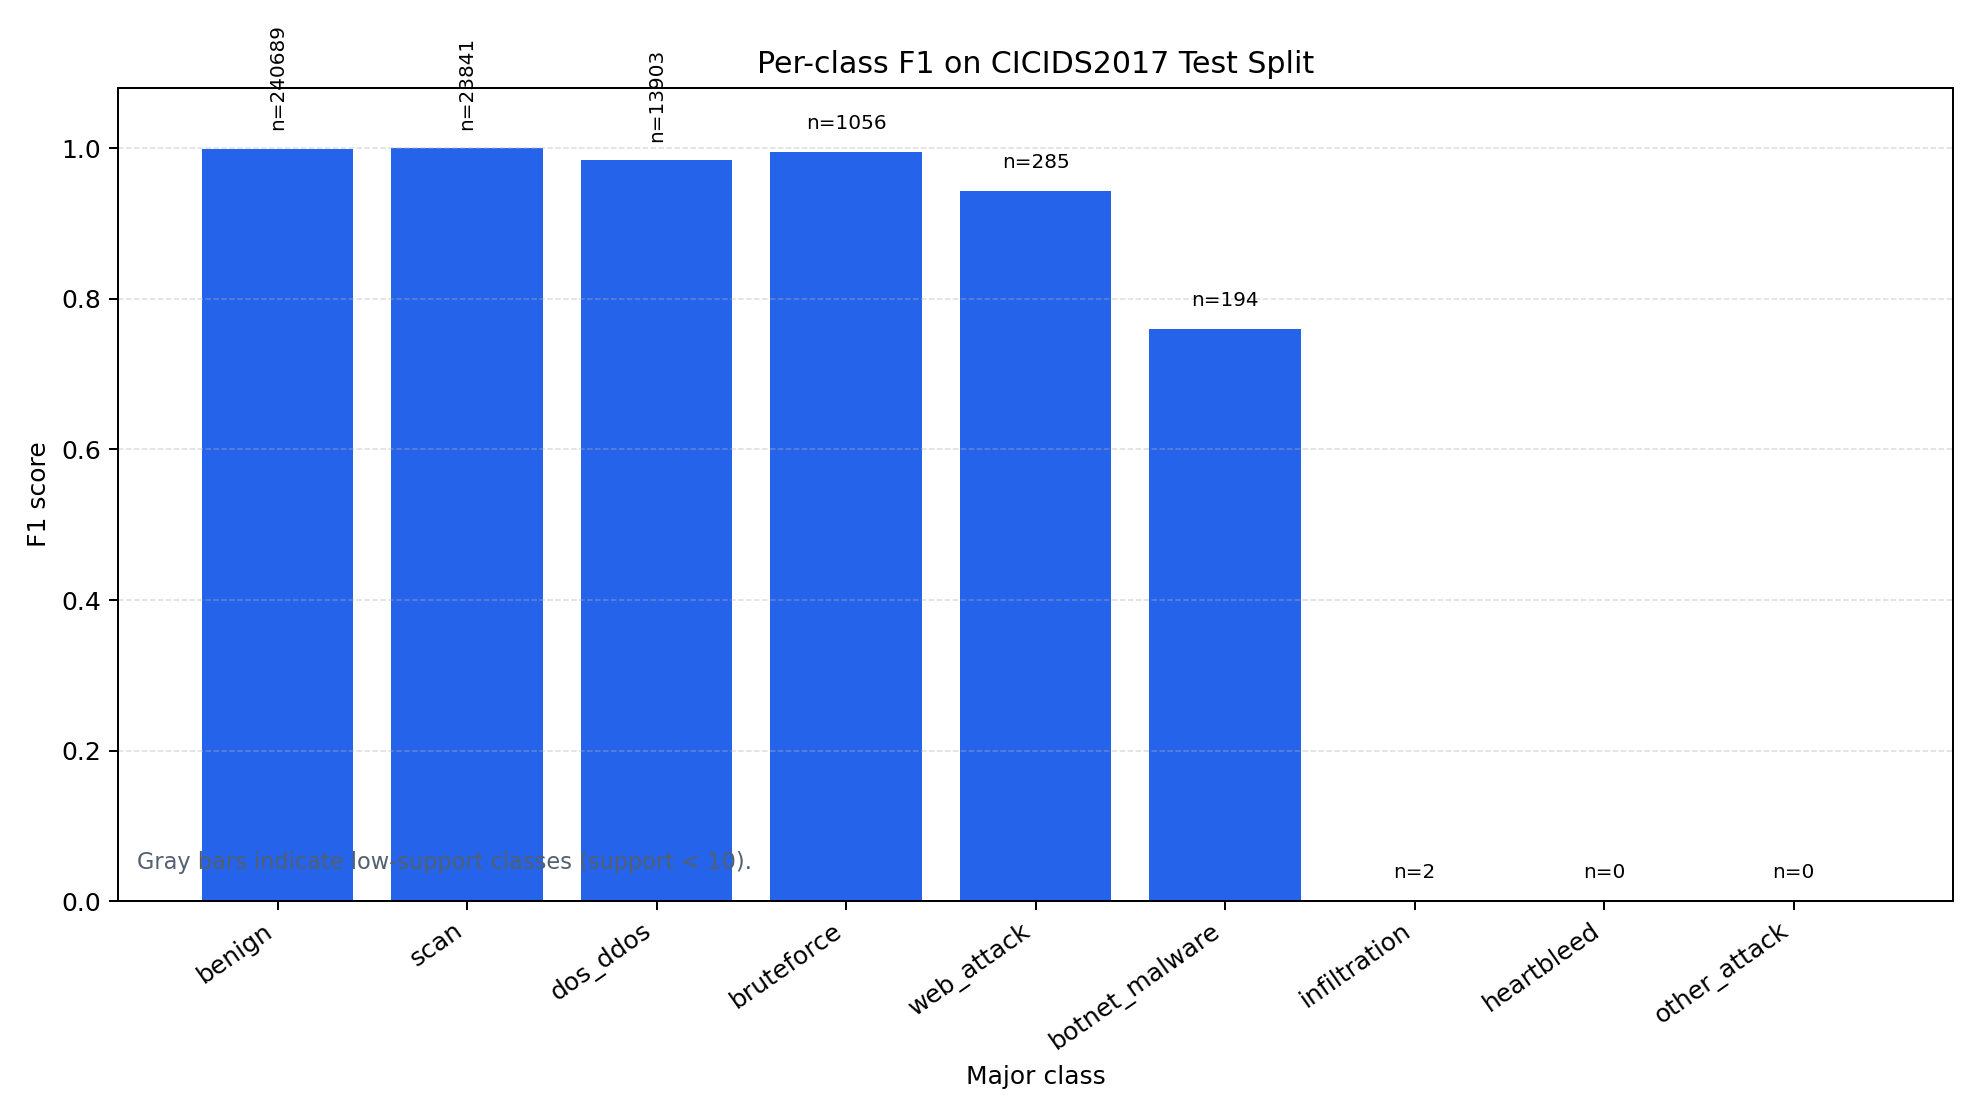
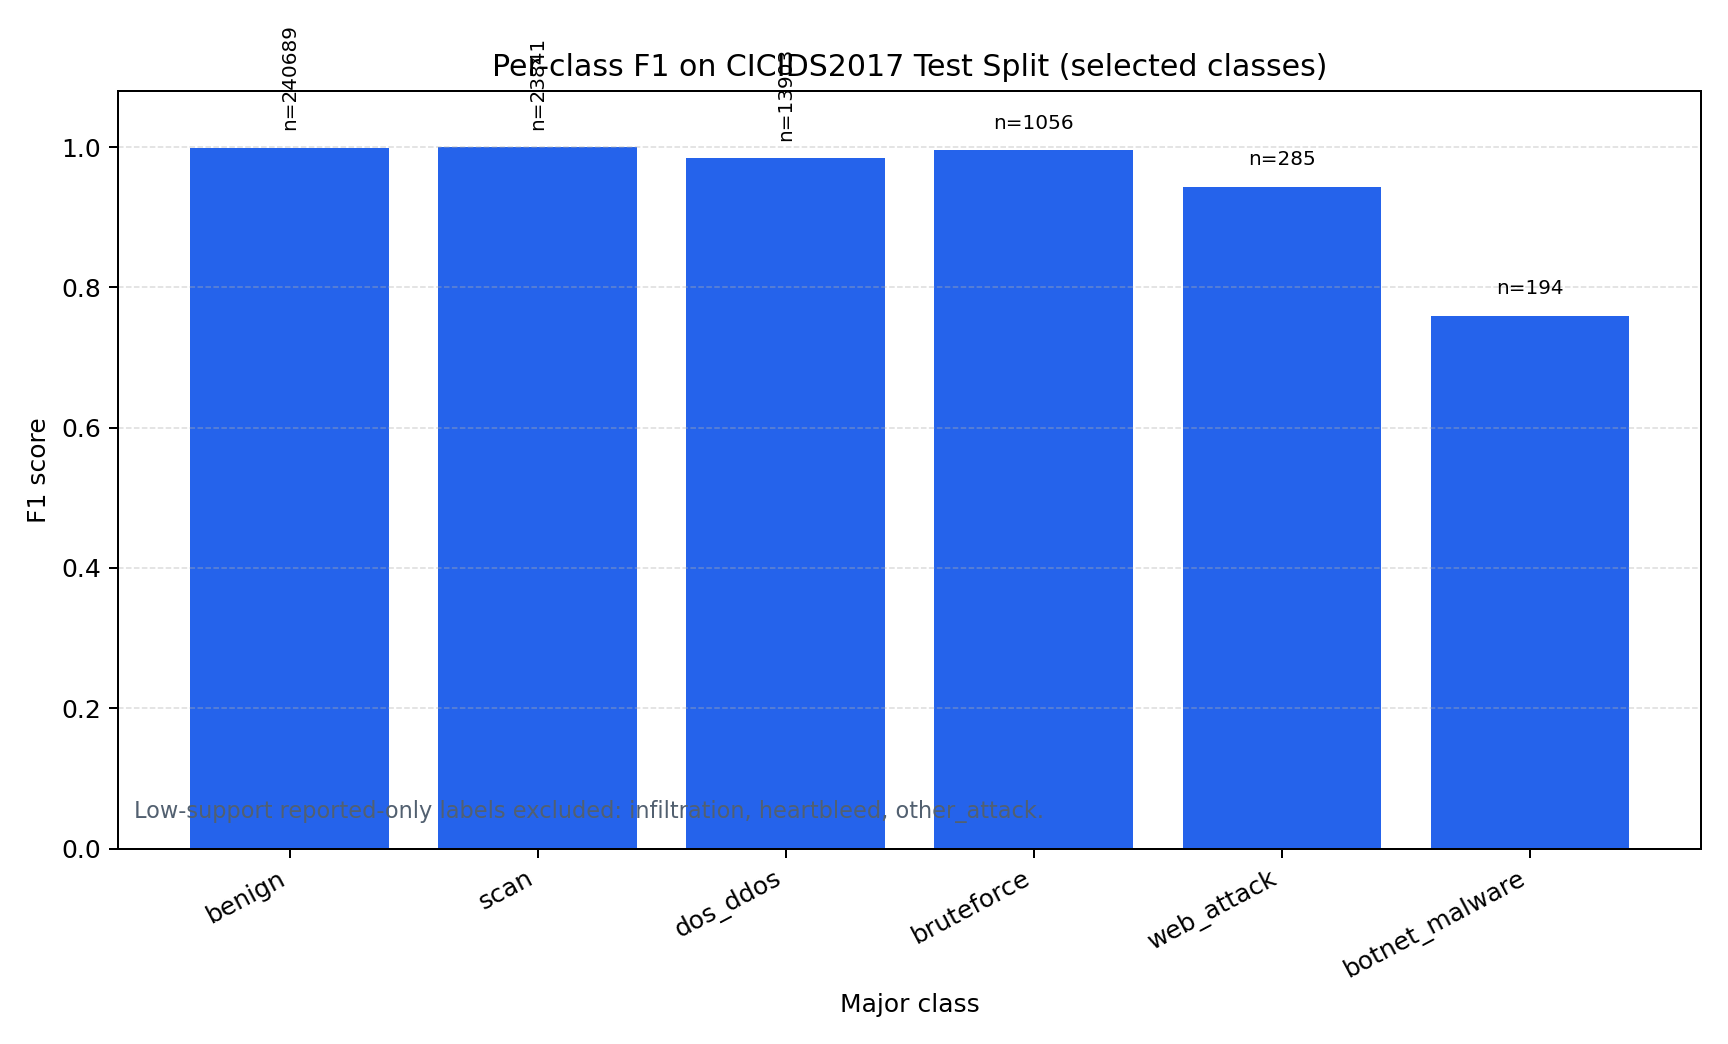
docs: update thesis evaluation figures

diff --git a/docs/thesis_figures/README.md b/docs/thesis_figures/README.md
@@ -3,6 +3,7 @@
 | Figure | Section | Caption |
 | --- | --- | --- |
 | `fig_4_1_training_macro_f1_curve.png` | 4.1 | Validation macro-F1 convergence over three supervised epochs; epoch 2 is selected as the best checkpoint. |
-| `fig_4_2_confusion_matrix_log_heatmap.png` | 4.2.1 | Log-scaled confusion matrix on the CICIDS2017 test split. |
-| `fig_4_2_per_class_f1_bar.png` | 4.2.1 | Per-class F1 scores with test support annotations; low-support classes are gray. |
+| `fig_4_1_training_loss_curve.png` | 4.1 | Training and validation loss curves over three supervised epochs. |
+| `fig_4_2_confusion_matrix_log_heatmap.png` | 4.2.1 | Log-scaled confusion matrix on the CICIDS2017 test split, excluding low-support reported-only labels. |
+| `fig_4_2_per_class_f1_bar.png` | 4.2.1 | Per-class F1 scores with test support annotations, excluding low-support reported-only labels. |
 | `fig_4_3_loss_weighting_macro_f1_comparison.png` | 4.3.2 | Best validation macro-F1 under representative class-weighting strategies. |
